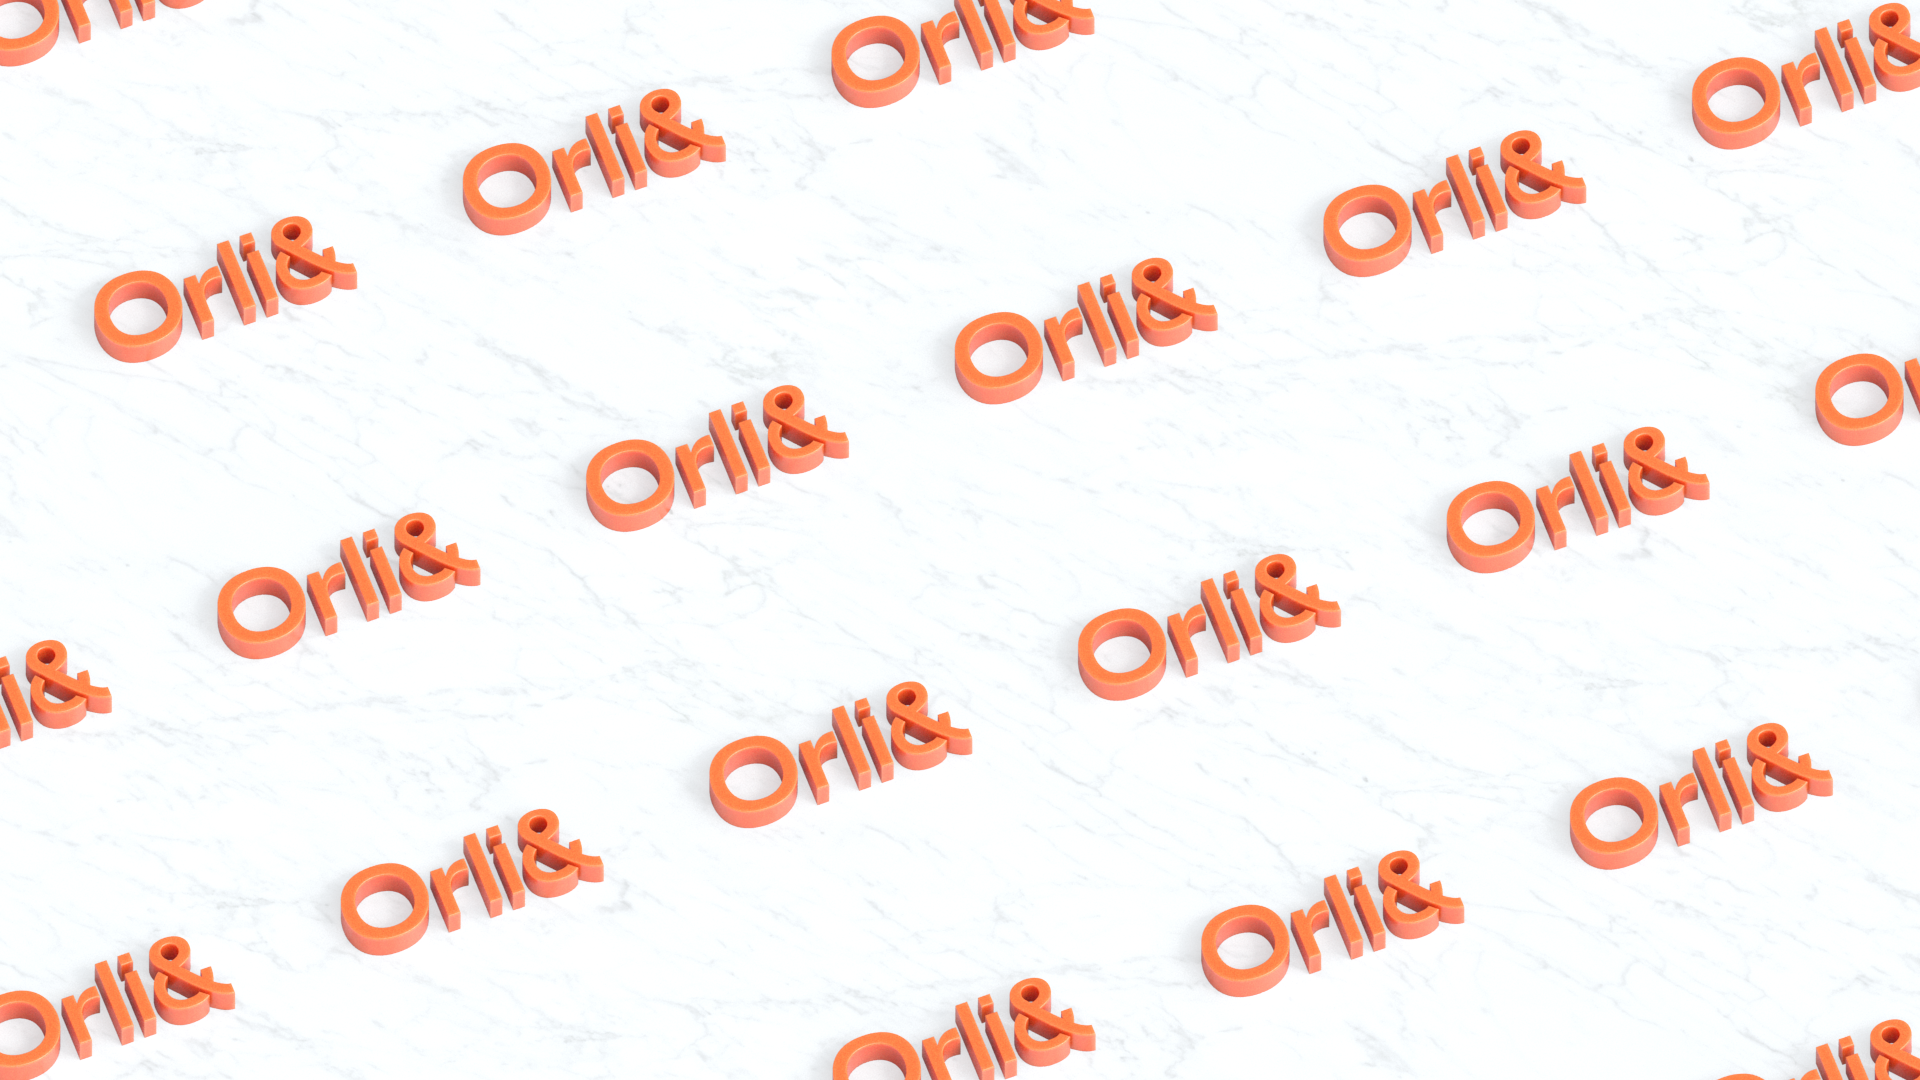
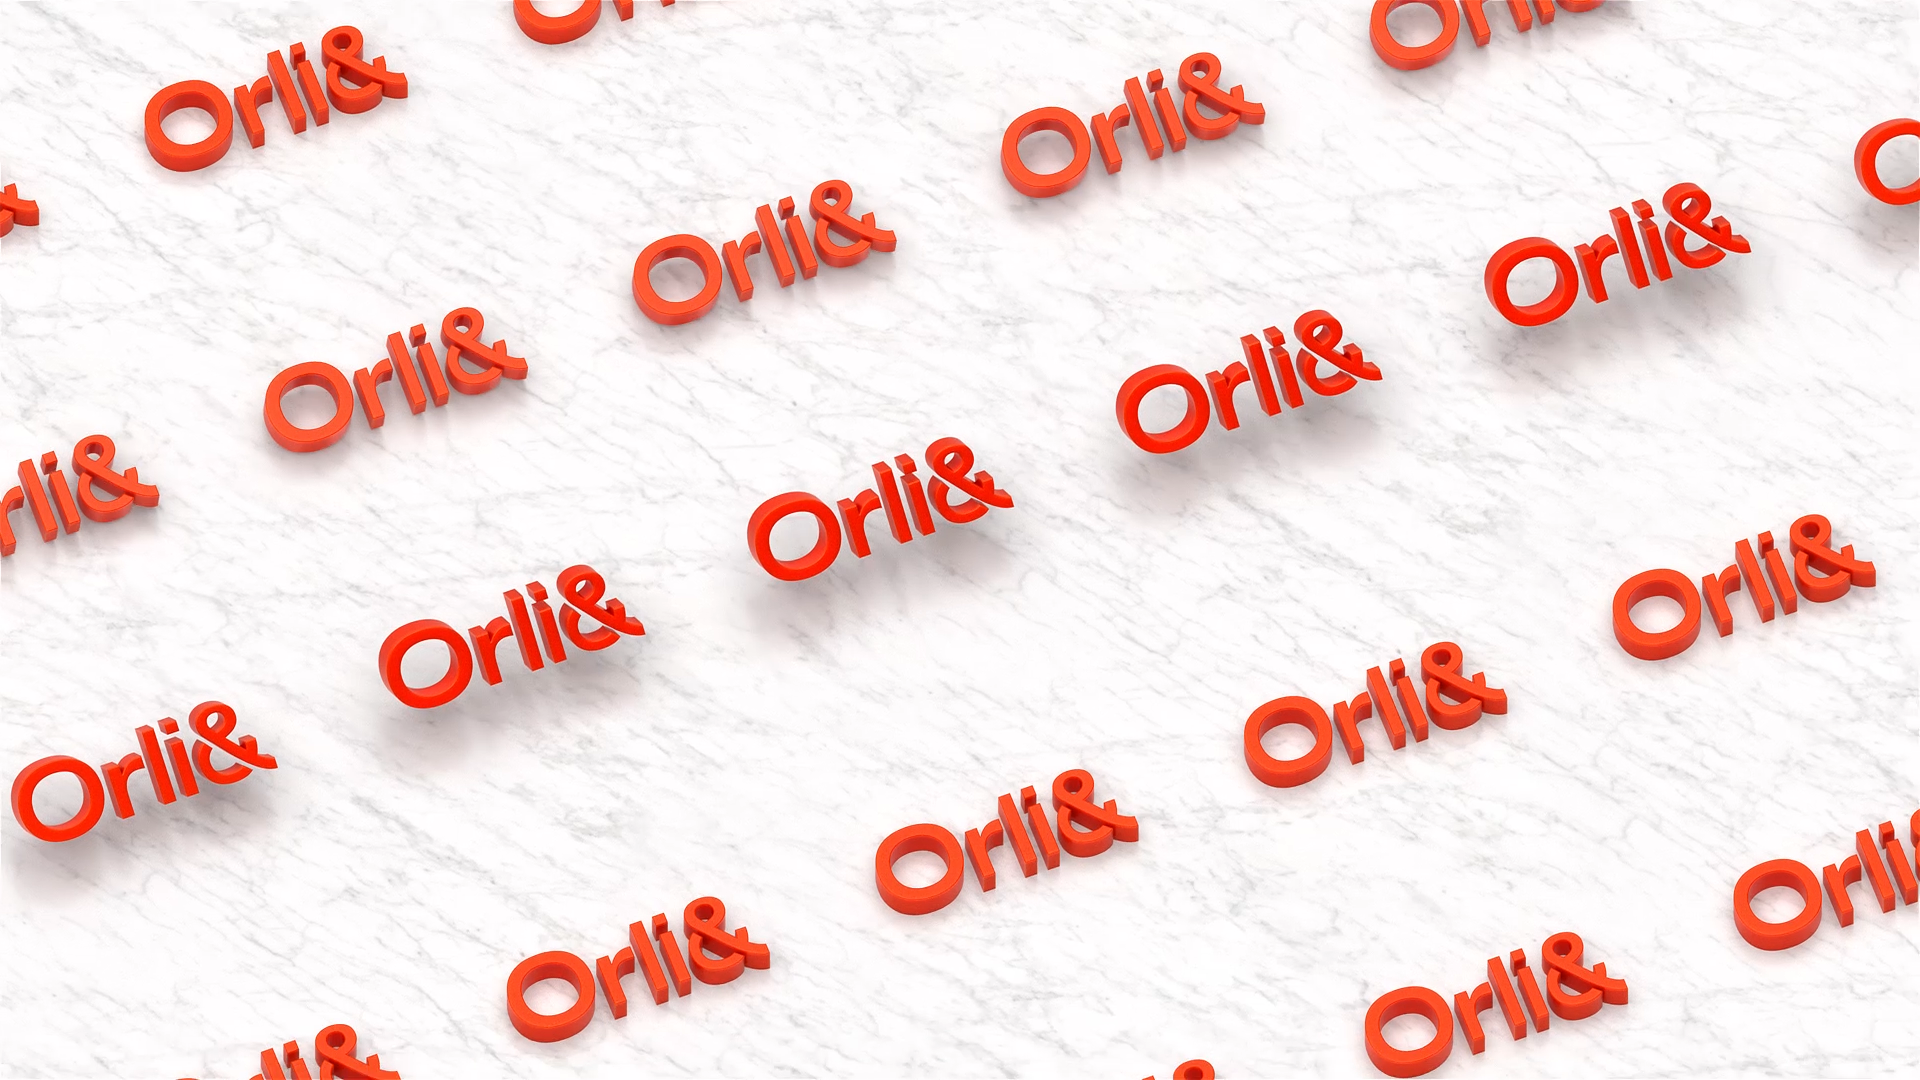
Updated metaimage

diff --git a/public/index.html b/public/index.html
@@ -28,7 +28,7 @@
     <meta name="description" content="On a mission to turn creative talent into the defining business & civic leaders of the 2020's." />
     <!-- <meta name="image" content="%PUBLIC_URL%/metaimage.png" /> -->
     <meta property="og:title" content="Orli& – Connecting creators, capital & civic society." />
-    <meta property="og:image" content="https://orlic.se/metaimage.png?=v5" />
+    <meta property="og:image" content="https://orlic.se/metaimage.png?=v6" />
     <!-- <meta property="og:image" content="%PUBLIC_URL%/metaimage.png?=v2" /> -->
     <meta property="og:description" content="On a mission to turn creative talent into the defining business & civic leaders of the 2020's." />
     <meta property="og:url" content="https://orlic.se" />
